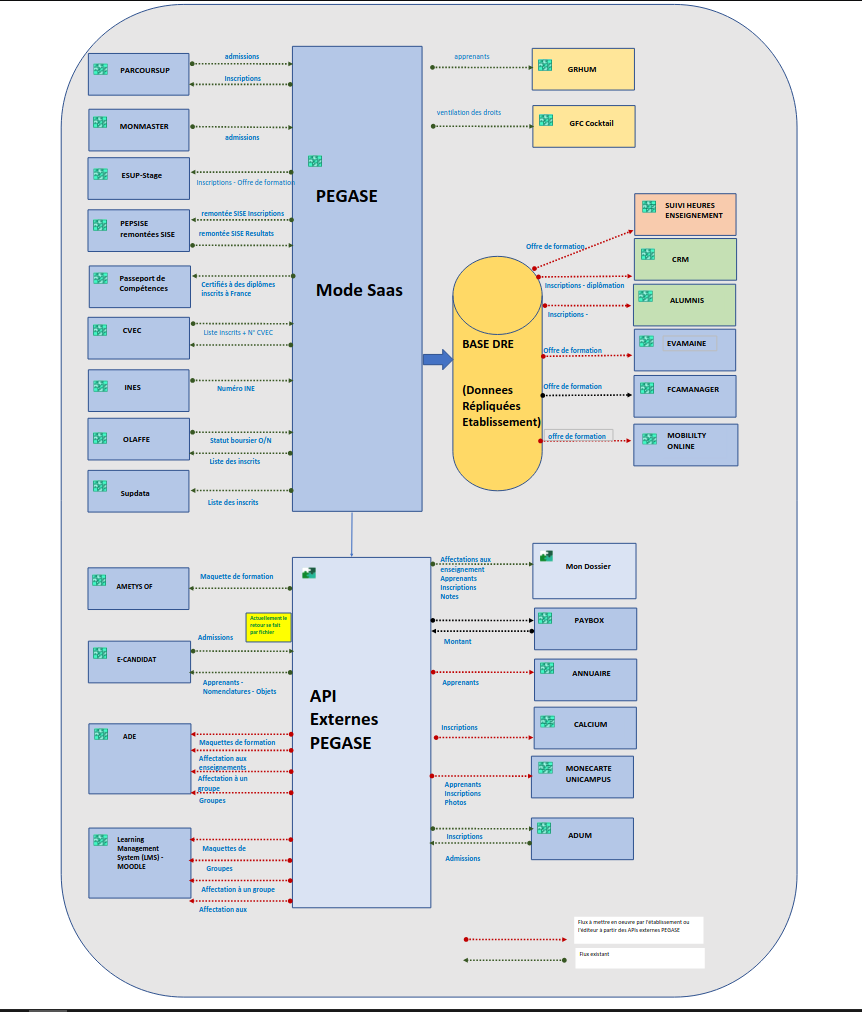
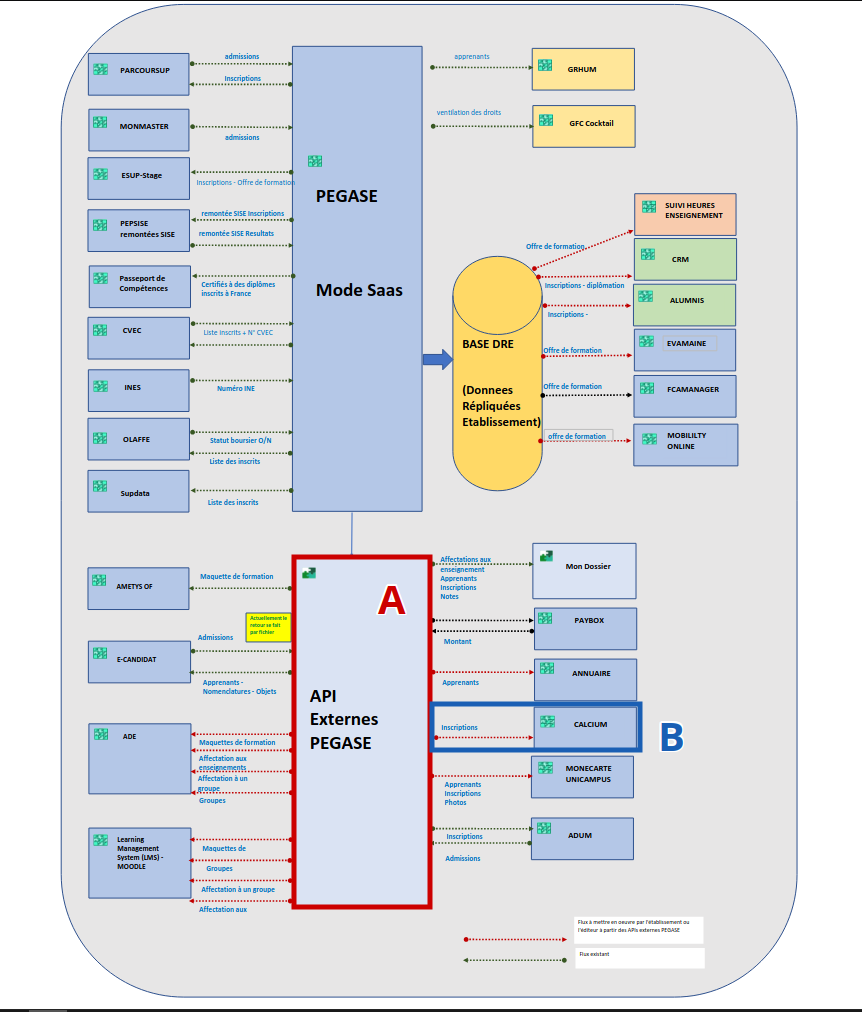
paufinnement trace

Changed region(s): [[0.3318, 0.5208, 0.8144, 0.919]]

diff --git a/src/views/TechView.vue b/src/views/TechView.vue
@@ -66,10 +66,10 @@
               <v-col cols="12" md="7">
                 <strong>Descriptif général de la trace :</strong><br>
                 La Trace 1 illustre le cœur du traitement logique d'un Job Talend. Elle représente le moment exact où les données de l'étudiant en cours de traitement sont croisées avec les données de l'offre de formation de l'université (stocké en mémoire au point A), avant d'être filtrées de manière sécurisée (point B) pour déclencher — ou non — un appel vers une nouvelle API (point C). Il est important de préciser que cette capture n'est qu'un <strong>extrait ciblé d'un job bien plus vaste</strong> : le flux complet comporte de nombreux autres composants en amont gérant l'authentification, la récupération paginée des données et le chargement des référentiels, ainsi que des composants en aval assurant les transformations finales et l'export CSV.<br>
-                Dans le cadre de mon stage, ce flux a une place centrale pour le projet "Calcium" (gestion des rendez-vous médicaux). Plutôt que de surcharger les bases de données PostgreSQL de l'université hébergées en mode SAAS avec des requêtes répétitives, ce job extrait, croise et consolide les parcours académiques (formations, cursus, adresses) de milliers d'apprenants afin de générer un fichier d'import CSV quotidien, fiable et parfaitement formaté.<br><br>
+                Dans le cadre de mon stage, ce flux a une place centrale pour le projet "Calcium" (gestion des rendez-vous médicaux). Plutôt que de surcharger les bases de données PostgreSQL de Pégase hébergées en mode SAAS avec des requêtes répétitives, ce job extrait, croise et consolide les parcours académiques (formations, cursus, adresses) de milliers d'apprenants afin de générer un fichier d'import CSV quotidien, fiable et parfaitement formaté.<br><br>
                 
                 <strong>Descriptif des savoir-faire :</strong><br>
-                Pour répondre aux besoins de l'application Calcium et traiter ce grand volume d'étudiants, j'ai dû <span class="text-blue-lighten-2 font-weight-medium">savoir consommer et paginer des API REST sécurisées</span>. L'un des défis majeurs a été de gérer la pagination de l'API de l'université pour itérer sur plus de 300 pages de résultats sans perte de données. Afin de ne pas interroger l'API pour chaque ligne et saturer le réseau, j'ai choisi de <span class="text-green-lighten-2 font-weight-medium">savoir optimiser les performances de jointure par la mise en cache</span>. Comme le montre le Point A de la Trace 1, les référentiels (comme le catalogue des communes par exemple) sont chargés une seule fois puis lus en mémoire vive (RAM), ce qui permet un croisement quasi-instantané avec le dossier de l'étudiant.<br><br>
+                Pour répondre aux besoins de l'application Calcium et traiter ce grand volume d'étudiants, j'ai dû <span class="text-blue-lighten-2 font-weight-medium">savoir consommer et paginer des API REST sécurisées</span>. L'un des défis majeurs a été de gérer la pagination de l'API de Pégase pour itérer sur plus de 300 pages de résultats sans perte de données. Afin de ne pas interroger l'API pour chaque ligne et saturer le réseau, j'ai choisi de <span class="text-green-lighten-2 font-weight-medium">savoir optimiser les performances de jointure par la mise en cache</span>. Comme le montre le Point A de la Trace 1, les référentiels (comme le catalogue des communes par exemple) sont chargés une seule fois puis lus en mémoire vive (RAM), ce qui permet un croisement quasi-instantané avec le dossier de l'étudiant.<br><br>
                 Au cours du développement, j'ai été confronté à des rejets du serveur (erreurs de connexion) dus à la cadence trop élevée de Talend, ainsi qu'à des crashs liés à des données manquantes. Pour y remédier, j'ai dû <span class="text-orange-lighten-2 font-weight-medium">savoir sécuriser les flux contre les pannes et exceptions</span>. Au niveau du Point B de la Trace 1, j'ai configuré un filtrage en "mode avancé" avec du code Java pour intercepter les valeurs nulles et éviter des arrêts brutaux du programme (NullPointerException). Cette rigueur garantit que l'appel API du Point C ne se déclenche que si l'identifiant est strictement valide.<br><br>
                 Enfin, avant l'exportation finale, j'ai utilisé des composants de mapping pour <span class="text-purple-lighten-2 font-weight-medium">savoir nettoyer et transformer des flux de données JSON</span>. Les informations brutes comportaient des résidus typographiques (crochets, guillemets d'échappement). J'ai combiné des fonctions Java directement dans les flux pour fournir un fichier cible parfaitement exploitable par l'application médicale.
               </v-col>
@@ -124,10 +124,10 @@
               </v-col>
               <v-col cols="12" md="7">
                 <strong>Descriptif général de la trace :</strong><br>
-                La Trace 4 illustre l'utilisation de l'outil Business Intelligence SAP Business Objects (BO) pour l'interrogation ciblée de la base de données de l'université. Elle dévoile les "coulisses" techniques d'une extraction d'information. On y observe la sélection minutieuse des champs à afficher via un "univers" métier (DRE-v3), la mise en place de conditions strictes pour cibler une population étudiante précise, et enfin la phase de test avec l'aperçu des résultats bruts anonymisés. Dans le cadre de mes missions de stage, cette maîtrise de BO m'a permis de fournir des jeux de données fiables aux services administratifs de l'université, sans avoir à développer des requêtes SQL manuelles complexes.<br><br>
+                La Trace 4 illustre l'utilisation de l'outil Business Intelligence SAP Business Objects (BO) pour l'interrogation ciblée de la base de données DRE de l'université. Elle dévoile les "coulisses" techniques d'une extraction d'information. On y observe la sélection minutieuse des champs à afficher via un "univers" métier (DRE-v3), la mise en place de conditions strictes pour cibler une population étudiante précise, et enfin la phase de test avec l'aperçu des résultats bruts anonymisés. Dans le cadre de mes missions de stage, cette utilisation de BO m'a permis de fournir des jeux de données fiables aux composantes de l'université, sans avoir à développer des requêtes SQL manuelles complexes.<br><br>
                 
                 <strong>Descriptif des savoir-faire :</strong><br>
-                Pour répondre aux demandes d'extraction spécifiques des services administratifs, j'ai dû <span class="text-orange-lighten-2 font-weight-medium">savoir concevoir des requêtes complexes sur un univers de données</span>. Comme le montre le Cadre A de la Trace 4, cela demande une bonne compréhension du modèle de données de l'université pour naviguer dans l'arborescence à gauche et sélectionner les bons indicateurs de restitution (code période, libellé de formation, note finale, etc.).<br><br>Afin de ne cibler que la population pertinente (ici, les étudiants de la formation <em>UNC-201</em> et de l'objet <em>UNC-12</em> sur la période universitaire <em>23-24</em>), j'ai dû <span class="text-pink-lighten-2 font-weight-medium">savoir appliquer des filtres et des conditions de restriction</span>. Le Cadre B illustre cette étape au niveau de l'éditeur de requête, en utilisant des opérateurs logiques (<code>ET</code>) pour croiser les données d'inscription et de résultats avec une grande précision.<br><br>Enfin, avant de valider l'extraction complète et d'exporter le fichier cible pour les utilisateurs finaux, j'ai pris soin de <span class="text-teal-lighten-2 font-weight-medium">savoir valider et contrôler la cohérence d'un jeu de données extrait</span>. Le Cadre C démontre cette étape de recette visuelle : l'actualisation de l'aperçu m'assure instantanément que la requête fonctionne, que les filtres s'appliquent correctement, et que les informations métiers (résultat final, note) remontent de manière cohérente sans générer de doublons ou d'erreurs d'exécution.
+                Pour répondre aux demandes d'extraction spécifiques des services administratifs, j'ai dû <span class="text-orange-lighten-2 font-weight-medium">savoir concevoir des requêtes complexes sur un univers de données</span>. Comme le montre le Cadre A de la Trace 4, cela demande une bonne compréhension du modèle de données de l'univers pour naviguer dans l'arborescence à gauche et sélectionner les bons indicateurs de restitution (code période, libellé de formation, note finale, etc.).<br><br>Afin de ne cibler que la population pertinente (ici, les étudiants de la formation <em>UNC-201</em> et de l'objet <em>UNC-12</em> sur la période universitaire <em>23-24</em>), j'ai dû <span class="text-pink-lighten-2 font-weight-medium">savoir appliquer des filtres et des conditions de restriction</span>. Le Cadre B illustre cette étape au niveau de l'éditeur de requête, en utilisant des opérateurs logiques (<code>ET</code>) pour croiser les données d'inscription et de résultats avec une grande précision.<br><br>Enfin, avant de valider l'extraction complète et d'exporter le fichier cible pour les utilisateurs finaux, j'ai pris soin de <span class="text-teal-lighten-2 font-weight-medium">savoir valider et contrôler la cohérence d'un jeu de données extrait</span>. Le Cadre C démontre cette étape de recette visuelle : l'actualisation de l'aperçu m'assure instantanément que la requête fonctionne, que les filtres s'appliquent correctement, et que les informations métiers (résultat final, note) remontent de manière cohérente sans générer de doublons ou d'erreurs d'exécution.
               </v-col>
             </v-row>
           </v-card-text>
@@ -142,7 +142,8 @@
               Savoir-faire élémentaires :
               <span class="text-blue-lighten-2 font-weight-medium">savoir configurer les variables d'environnement et les accès sécurisés d'un serveur</span>,
               <span class="text-green-lighten-2 font-weight-medium">savoir paramétrer les flux de synchronisation de données distantes</span>,
-              <span class="text-purple-lighten-2 font-weight-medium">savoir analyser des logs système pour monitorer l'état des automatisations</span>.
+              <span class="text-purple-lighten-2 font-weight-medium">savoir analyser des logs système pour monitorer l'état des automatisations</span>,
+              <span class="text-pink-lighten-2 font-weight-medium">savoir développer des scripts SQL complémentaires pour étendre les fonctionnalités d'un outil</span>.
             </div>
 
             <v-row>
@@ -152,10 +153,10 @@
               </v-col>
               <v-col cols="12" md="7">
                 <strong>Descriptif général de la trace :</strong><br>
-                La Trace 5 illustre la mise en place de l'outil DREmgr, l'interface permettant de récupérer et de gérer les données répliquées de l'établissement (DRE). L'installation de base de cet outil a été gérée en étroite collaboration avec l'équipe système, qui a pris le soin de m'expliquer l'architecture sous-jacente : DREmgr est déployé via <strong>Docker</strong>, et l'ensemble des services qui le composent (base de données, interface web, ...) s'exécutent dans des conteneurs orchestrés. Cette explication m'a permis de comprendre pourquoi le fichier <code>.env</code> joue un rôle aussi central — il est la seule interface de configuration accessible sans toucher aux conteneurs eux-mêmes — et d'appréhender concrètement ce que signifie intervenir dans un environnement conteneurisé en production. Mon rôle spécifique a ensuite été d'intervenir "sous le capot" du serveur, via un terminal Linux, pour compléter ce fichier de configuration central. Les captures montrent l'injection des variables d'accès aux bons emplacements pour la base de données (Cadre A), le ciblage des flux d'importation (Cadre B), et enfin, l'interface graphique de monitoring permettant de vérifier que les tâches automatisées s'exécutent correctement (Cadre C).<br><br>
+                La Trace 5 illustre la mise en place de l'outil DREmgr, l'interface permettant de récupérer et de gérer les données répliquées de l'établissement (DRE). L'installation de base de cet outil a été gérée en étroite collaboration avec l'équipe système, qui a pris le soin de m'expliquer l'architecture sous-jacente : DREmgr est déployé via <strong>Docker</strong>, et l'ensemble des services qui le composent (base de données, interface web, ...) s'exécutent dans des conteneurs orchestrés. Cette explication m'a permis de comprendre pourquoi le fichier <code>.env</code> joue un rôle aussi central — il est la seule interface de configuration accessible sans toucher aux conteneurs eux-mêmes — et d'appréhender concrètement ce que signifie intervenir dans un environnement conteneurisé en production. Mon rôle spécifique a ensuite été d'intervenir "sous le capot" du serveur, via un terminal Linux, pour compléter ce fichier de configuration central. Les captures montrent l'injection des variables d'accès aux bons emplacements pour la base de données (Cadre A), le ciblage des flux d'importation (Cadre B), et enfin, l'interface graphique de monitoring permettant de vérifier que les tâches automatisées s'exécutent correctement (Cadre C). Mon intervention sur l'environnement DREmgr ne s'est pas arrêtée à sa configuration native : j'ai également configuré et mis en place un addon — un script écrit en SQL — permettant de générer une table complémentaire regroupant les informations nécessaires à la fiabilisation de la RDD (Reprise De Données), des données absentes nativement de la partie pilotage de la DRE.<br><br>
                 
                 <strong>Descriptif des savoir-faire :</strong><br>
-                Pour que cet outil fonctionne de manière sécurisée et s'intègre au réseau de l'université, j'ai dû <span class="text-blue-lighten-2 font-weight-medium">savoir configurer les variables d'environnement et les accès sécurisés d'un serveur</span>. Comme le montre le Cadre A de la Trace 5, j'ai édité le fichier dremgr.env généré lors de l'installation par l'équipe système. Mon intervention via l'éditeur de ligne de commande GNU nano 7.2 a consisté à y renseigner précisément les identifiants métiers (POSTGRES_USER) et les mots de passe aux bons endroits pour garantir la connexion.<br><br>Il a fallu ensuite <span class="text-green-lighten-2 font-weight-medium">savoir paramétrer les flux de synchronisation de données distantes</span>. Le Cadre B illustre cette étape avec la configuration du profil de production : j'ai défini l'adresse cible (prod_DRE_URL) permettant au serveur de télécharger les sauvegardes (dumps).<br><br>Enfin, l'outil étant automatisé, j'ai dû <span class="text-purple-lighten-2 font-weight-medium">savoir analyser des logs système pour monitorer l'état des automatisations</span>. Le Cadre C démontre cette supervision active : je m'appuie sur la lecture des fichiers cron.log et import.log pour vérifier les mises à jour du code source et la création des schémas. Surtout, cette analyse m'a permis d'intercepter et de résoudre concrètement un problème d'importation des dumps qui bloquait l'exécution des tâches planifiées, en remontant à la source de l'anomalie signalée par les lignes d'erreurs pendant l'import.
+                Pour que cet outil fonctionne de manière sécurisée et s'intègre au réseau de l'université, j'ai dû <span class="text-blue-lighten-2 font-weight-medium">savoir configurer les variables d'environnement et les accès sécurisés d'un serveur</span>. Comme le montre le Cadre A de la Trace 5, j'ai édité le fichier dremgr.env généré lors de l'installation par l'équipe système. Mon intervention via l'éditeur de ligne de commande GNU nano 7.2 a consisté à y renseigner précisément les identifiants métiers (POSTGRES_USER) et les mots de passe aux bons endroits pour garantir la connexion.<br><br>Il a fallu ensuite <span class="text-green-lighten-2 font-weight-medium">savoir paramétrer les flux de synchronisation de données distantes</span>. Le Cadre B illustre cette étape avec la configuration du profil de production : j'ai défini l'adresse cible (prod_DRE_URL) permettant au serveur de télécharger les sauvegardes (dumps).<br><br>Enfin, l'outil étant automatisé, j'ai dû <span class="text-purple-lighten-2 font-weight-medium">savoir analyser des logs système pour monitorer l'état des automatisations</span>. Le Cadre C démontre cette supervision active : je m'appuie sur la lecture des fichiers cron.log et import.log pour vérifier les mises à jour du code source et la création des schémas. Surtout, cette analyse m'a permis d'intercepter et de résoudre concrètement un problème d'importation des dumps qui bloquait l'exécution des tâches planifiées, en remontant à la source de l'anomalie signalée par les lignes d'erreurs pendant l'import.<br><br>Au-delà de cette administration native de l'outil, j'ai également <span class="text-pink-lighten-2 font-weight-medium">savoir développer des scripts SQL complémentaires pour étendre les fonctionnalités d'un outil</span>. J'ai en effet configuré et mis en place un addon sur DREmgr sous forme de script SQL, permettant de générer une table supplémentaire regroupant les informations nécessaires à la fiabilisation de la RDD (Reprise De Données) — des données qui n'étaient pas présentes nativement dans la partie pilotage de la DRE — venant ainsi compléter, en dehors du processus de remontée automatique nocturne, le périmètre des données disponibles pour sécuriser la migration entre Apogée et Pégase.
               </v-col>
             </v-row>
           </v-card-text>
@@ -298,6 +299,7 @@
           <v-card-text class="pt-2">
             <ul class="text-body-2 mb-4 ml-6">
               <li class="mb-1"><span class="text-blue-lighten-2 font-weight-medium">Configurer les variables d'environnement d'un service en production</span> : paramétrage sécurisé du fichier .env de DREmgr déployé sous Docker par l'équipe système (Trace 5).</li>
+              <li class="mb-1"><span class="text-pink-lighten-2 font-weight-medium">Développer des scripts SQL complémentaires pour étendre les fonctionnalités d'un outil</span> : conception et mise en place d'un addon SQL sur DREmgr générant une table de données nécessaires à la fiabilisation de la RDD, absente nativement de la partie pilotage de la DRE (Trace 5).</li>
               <li class="mb-1"><span class="text-orange-lighten-2 font-weight-medium">Paramétrer une connexion relationnelle vers une base de données distante</span> : configuration ODBC vers la base PostgreSQL DRE depuis SAP IDT (Trace 6).</li>
               <li class="mb-1"><span class="text-teal-lighten-2 font-weight-medium">Administrer un projet local et ses ressources dans un outil de conception d'information</span> : organisation des couches connexion, fondation et présentation dans SAP IDT (Trace 6).</li>
             </ul>

diff --git a/src/views/ProjView.vue b/src/views/ProjView.vue
@@ -37,7 +37,7 @@
                 La Trace 7 illustre l'utilisation d'un outil de gestion de projet classique et indispensable en entreprise : le diagramme de Gantt. Il s'agit ici du tableau de bord global de la DSIN pour le grand déploiement du système Pégase et de ses environnements (Test et Production). Cette trace matérialise le découpage du projet en jalons précis sur plusieurs mois. Dans le cadre de mon stage, ce document a une importance capitale : il permet de situer mon travail technique (la mise en place de la DRE et des flux API Calcium) dans l'écosystème global de l'équipe, en fixant des échéances (deadlines) claires pour coordonner la mise en production avec les autres développeurs et chefs de projet.<br><br>
 
                 <strong>Descriptif des savoir-faire :</strong><br>
-                Pour participer activement aux mécanismes de suivi de projet du service, j'ai dû <span class="text-blue-lighten-2 font-weight-medium">savoir s'intégrer dans un planning collaboratif et identifier ses missions</span>. Comme le montre le Cadre A de la Trace 7, le projet global est vaste, mais il est découpé par acteur. Savoir isoler mes lignes d'intervention (Antoine) parmi celles de mes collaborateurs (Christelle, Loan, Antonin) est la première étape de mon autonomie.<br><br>Une fois les tâches identifiées, il a fallu <span class="text-green-lighten-2 font-weight-medium">savoir évaluer l'état d'avancement et valider des jalons</span>. Le Cadre B démontre cette compétence de suivi régulier : au fur et à mesure de mes développements, j'ai rendu compte de mon travail pour que le pourcentage d'avancement passe à 100%, confirmant ainsi la réussite technique de mes jalons de test et de production.<br><br>Enfin, un projet informatique est soumis à des contraintes de temps strictes. J'ai donc dû <span class="text-purple-lighten-2 font-weight-medium">savoir visualiser et respecter le découpage temporel d'un projet</span>. Le Cadre C illustre cette projection dans le temps. L'organisation visuelle du Gantt m'a permis d'anticiper ma charge de travail sur les mois d'avril, mai et juin, de comprendre les dépendances (par exemple, terminer l'installation DRE en environnement de test avant de passer à la production), et de m'assurer que mes livrables respectaient le rythme imposé par l'équipe métier.
+                Pour participer activement aux mécanismes de suivi de projet du service, j'ai dû <span class="text-blue-lighten-2 font-weight-medium">savoir m'intégrer dans un planning collaboratif et identifier ses missions</span>. Comme le montre le Cadre A de la Trace 7, le projet global est vaste, mais il est découpé par acteur. Savoir isoler mes lignes d'intervention (Antoine) parmi celles de mes collaborateurs (Christelle, Loan, Antonin) est la première étape de mon autonomie.<br><br>Une fois les tâches identifiées, il a fallu <span class="text-green-lighten-2 font-weight-medium">savoir évaluer l'état d'avancement et valider des jalons</span>. Le Cadre B démontre cette compétence de suivi régulier : au fur et à mesure de mes développements, j'ai rendu compte de mon travail pour que le pourcentage d'avancement passe à 100%, confirmant ainsi la réussite technique de mes jalons de test et de production.<br><br>Enfin, un projet informatique est soumis à des contraintes de temps strictes. J'ai donc dû <span class="text-purple-lighten-2 font-weight-medium">savoir visualiser et respecter le découpage temporel d'un projet</span>. Le Cadre C illustre cette projection dans le temps. L'organisation visuelle du Gantt m'a permis d'anticiper ma charge de travail sur les mois d'avril, mai et juin, de comprendre les dépendances (par exemple, terminer l'installation DRE en environnement de test avant de passer à la production), et de m'assurer que mes livrables respectaient le rythme imposé par l'équipe métier.
               </v-col>
             </v-row>
           </v-card-text>
@@ -62,10 +62,10 @@
               </v-col>
               <v-col cols="12" md="7">
                 <strong>Descriptif général de la trace :</strong><br>
-                La Trace 9illustre la phase finale et cruciale du cycle de développement logiciel : la documentation. Une fois le job d'intégration de données "Calcium" terminé et fonctionnel, j'ai rédigé ce document technique de synthèse (réalisé en LaTeX pour un rendu professionnel). Cette capture montre la structuration de l'information : une introduction rappelant l'objectif métier pour l'université, le détail des référentiels chargés en mémoire vive avec le nom exact des composants Talend, et la description séquentielle des opérations de traitement. Ce livrable est indispensable, car il garantit que n'importe quel autre développeur ou technicien de la DSIN pourra auditer, comprendre et modifier ce flux à l'avenir, pérennisant ainsi le travail réalisé durant mon stage.<br><br>
+                La Trace 9 illustre la phase finale et cruciale du cycle de développement logiciel : la documentation. Une fois le job d'intégration de données "Calcium" terminé et fonctionnel, j'ai rédigé ce document technique de synthèse (réalisé en LaTeX pour un rendu professionnel). Cette capture montre la structuration de l'information : une introduction rappelant l'objectif métier pour l'université, le détail des référentiels chargés en mémoire vive avec le nom exact des composants Talend, et la description séquentielle des opérations de traitement. Ce livrable est indispensable, car il garantit que n'importe quel autre développeur ou technicien de la DSIN pourra auditer, comprendre et modifier ce flux à l'avenir, pérennisant ainsi le travail réalisé durant mon stage.<br><br>
 
                 <strong>Descriptif des savoir-faire :</strong><br>
-                Pour clôturer ma mission de développement proprement, j'ai dû <span class="text-blue-lighten-2 font-weight-medium">savoir rédiger une documentation technique claire et structurée</span>. Le Cadre C de la Trace 9illustre cette rigueur de présentation : la logique du flux n'est pas un bloc de texte indigeste, mais est décomposée en étapes numérotées, chronologiques et titrées (Nettoyage, Extraction, Formatage) facilitant la lecture.<br><br>L'enjeu n'était pas simplement de copier-coller du code, mais de <span class="text-green-lighten-2 font-weight-medium">savoir synthétiser l'architecture et la logique métier d'un flux de données</span>. Le Cadre B le démontre : j'explique "en langage humain" l'utilité métier de chaque composant technique complexe (par exemple, justifier l'usage de tHashOutput_4 pour l'API LDAP ou tHashOutput_3 pour les communes).<br><br>Enfin, l'objectif ultime de cette démarche rédactionnelle était de <span class="text-purple-lighten-2 font-weight-medium">savoir assurer la maintenabilité et la transmission d'un projet informatique</span>. En posant explicitement le contexte global du flux pour l'université dès le Cadre A, je m'assure que mon travail s'inscrit durablement dans le système d'information. Cette contextualisation garantit une passation fluide et sécurise le cycle de vie de l'application médicale "Calcium" bien au-delà de mon stage.
+                Pour clôturer ma mission de développement proprement, j'ai dû <span class="text-blue-lighten-2 font-weight-medium">savoir rédiger une documentation technique claire et structurée</span>. Le Cadre C de la Trace 9 illustre cette rigueur de présentation : la logique du flux n'est pas un bloc de texte indigeste, mais est décomposée en étapes numérotées, chronologiques et titrées (Nettoyage, Extraction, Formatage) facilitant la lecture.<br><br>L'enjeu n'était pas simplement de copier-coller du code, mais de <span class="text-green-lighten-2 font-weight-medium">savoir synthétiser l'architecture et la logique métier d'un flux de données</span>. Le Cadre B le démontre : j'explique "en langage humain" l'utilité métier de chaque composant technique complexe (par exemple, justifier l'usage de tHashOutput_4 pour l'API LDAP ou tHashOutput_3 pour les communes).<br><br>Enfin, l'objectif ultime de cette démarche rédactionnelle était de <span class="text-purple-lighten-2 font-weight-medium">savoir assurer la maintenabilité et la transmission d'un projet informatique</span>. En posant explicitement le contexte global du flux pour l'université dès le Cadre A, je m'assure que mon travail s'inscrit durablement dans le système d'information. Cette contextualisation garantit une passation fluide et sécurise le cycle de vie de l'application médicale "Calcium" bien au-delà de mon stage.
               </v-col>
             </v-row>
           </v-card-text>

diff --git a/src/views/IntegrationView.vue b/src/views/IntegrationView.vue
@@ -64,7 +64,7 @@
                 La Trace 13 illustre la cartographie complète de la nouvelle architecture logicielle de l'université. Lors d'une arrivée dans un service comme la DSIN, surtout en pleine période de transition entre l'ancien système Apogée et le nouveau système national Pégase, il est impossible de commencer à développer sans avoir une vision globale de l'environnement. Ce schéma d'urbanisation recense l'ensemble des interactions entre le cœur Pégase (en mode SaaS), la base de données répliquée (DRE), les API, et la multitude d'applications satellites de l'établissement (Parcoursup, Moodle, Annuaire, etc.). Cette trace prouve ma capacité à prendre du recul pour comprendre les rouages complexes de l'entreprise avant d'agir techniquement.<br><br>
                 
                 <strong>Descriptif des savoir-faire :</strong><br>
-                Pour m'intégrer efficacement et être pertinent dans mes développements, j'ai dû <span class="text-blue-lighten-2 font-weight-medium">savoir s'approprier l'architecture globale d'un système d'information complexe</span>. Le <strong>Cadre A</strong> de la Trace 13 illustre le pôle central des "API Externes PEGASE". Plutôt que de coder à l'aveugle, l'étude de ce schéma m'a permis de comprendre comment les données transitaient depuis le mode SaaS jusqu'aux briques d'interrogation, conditionnant ainsi toute ma démarche de développement sur l'outil d'intégration Talend / Talaxie.<br><br>Une fois le contexte global assimilé, j'ai dû <span class="text-green-lighten-2 font-weight-medium">savoir identifier les flux de données et les dépendances entre applications métiers</span> pour isoler mon périmètre d'action. Le <strong>Cadre B</strong> démontre cette phase d'analyse : j'y ai repéré l'application médicale « CALCIUM » (mon projet principal) et j'ai constaté que le lien d'alimentation (la flèche rouge "Inscriptions") correspondait à un "Flux à mettre en œuvre par l'établissement". Cette lecture m'a permis de valider techniquement mon cahier des charges : mon rôle était de matérialiser ce flux en pointillés en créant le pont logiciel entre l'API et l'application finale.
+                Pour m'intégrer efficacement et être pertinent dans mes développements, j'ai dû <span class="text-blue-lighten-2 font-weight-medium">savoir s'approprier l'architecture globale d'un système d'information complexe</span>. Le Cadre A de la Trace 13 illustre le pôle central des "API Externes PEGASE". Plutôt que de coder à l'aveugle, l'étude de ce schéma m'a permis de comprendre comment les données transitaient depuis le mode SaaS jusqu'aux briques d'interrogation, conditionnant ainsi toute ma démarche de développement sur l'outil d'intégration Talend / Talaxie.<br><br>Une fois le contexte global assimilé, j'ai dû <span class="text-green-lighten-2 font-weight-medium">savoir identifier les flux de données et les dépendances entre applications métiers</span> pour isoler mon périmètre d'action. Le Cadre B démontre cette phase d'analyse : j'y ai repéré l'application médicale « CALCIUM » (mon projet principal) et j'ai constaté que le lien d'alimentation (la flèche rouge "Inscriptions") correspondait à un "Flux à mettre en œuvre par l'établissement". Cette lecture m'a permis de valider techniquement mon cahier des charges : mon rôle était de matérialiser ce flux en pointillés en créant le pont logiciel entre l'API et l'application finale.
               </v-col>
             </v-row>
           </v-card-text>
